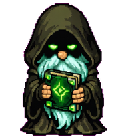
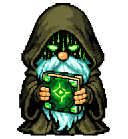
Upgrade Grimoire and Gizmo to v2 desktop pets
Add sixteen looking directions and refreshed appearances, with animated
README previews and complete pet packages in both plugin distributions.
Preserve spritesheets referenced by pet manifests instead of dropping
them with large display art. Release version 1.1.6.

Validation: four offline packaging tests, v2 atlas checks, matching
spritesheet hashes across all six packages, and rendered README previews.

diff --git a/scripts/build-marketplace.py b/scripts/build-marketplace.py
@@ -10,8 +10,8 @@ Generates:
   .claude-plugin/marketplace.json   -> lists grim-tome
   .agents/plugins/marketplace.json  -> lists grim-core, grim-council, grim-artifacts (INSTALLED_BY_DEFAULT)
 
-Skill folders are copied with display images larger than MAX_IMAGE_BYTES stripped;
-unless launcher metadata references them. Unreferenced large images are display art.
+Skill folders are copied with display images larger than MAX_IMAGE_BYTES stripped,
+unless launcher metadata or a pet manifest references them as runtime assets.
 
 Run from the repo root: python3 scripts/build-marketplace.py
 """
@@ -23,7 +23,7 @@ import sys
 from pathlib import Path
 
 ROOT = Path(__file__).resolve().parent.parent
-VERSION = "1.1.5"
+VERSION = "1.1.6"
 MAX_IMAGE_BYTES = 200 * 1024
 IMAGE_SUFFIXES = {".png", ".jpg", ".jpeg", ".gif", ".webp"}
 
@@ -115,7 +115,7 @@ def rewrite_skill_name(skill_md: Path, new_name: str):
 
 def copy_skill(src: Path, dest: Path):
     metadata = src / "agents/openai.yaml"
-    referenced_icons = set()
+    referenced_assets = set()
     if metadata.is_file():
         for match in re.finditer(r"^  icon_(?:small|large):[ \t]*([^\n]+)$", metadata.read_text(), re.MULTILINE):
             value = match.group(1).strip()
@@ -125,7 +125,16 @@ def copy_skill(src: Path, dest: Path):
                 value = value[1:-1].replace("''", "'")
             else:
                 value = value.split(" #", 1)[0].strip()
-            referenced_icons.add((src / value).resolve())
+            referenced_assets.add((src / value).resolve())
+
+    for manifest in src.rglob("pet.json"):
+        value = json.loads(manifest.read_text()).get("spritesheetPath")
+        if not isinstance(value, str) or not value.strip() or Path(value).is_absolute():
+            raise ValueError(f"{manifest}: spritesheetPath must be a relative file path")
+        spritesheet = (manifest.parent / value).resolve()
+        if not spritesheet.is_relative_to(src.resolve()) or not spritesheet.is_file():
+            raise ValueError(f"{manifest}: spritesheetPath must resolve to a file inside the skill")
+        referenced_assets.add(spritesheet)
 
     def ignore(directory, names):
         skipped = []
@@ -134,7 +143,7 @@ def copy_skill(src: Path, dest: Path):
                 skipped.append(name)
                 continue
             p = Path(directory) / name
-            if p.is_file() and p.suffix.lower() in IMAGE_SUFFIXES and p.stat().st_size > MAX_IMAGE_BYTES and p.resolve() not in referenced_icons:
+            if p.is_file() and p.suffix.lower() in IMAGE_SUFFIXES and p.stat().st_size > MAX_IMAGE_BYTES and p.resolve() not in referenced_assets:
                 skipped.append(name)
         return skipped
 

diff --git a/scripts/test_build_marketplace.py b/scripts/test_build_marketplace.py
@@ -1,5 +1,6 @@
 """Offline checks for runtime assets in marketplace skill bundles."""
 import importlib.util
+import json
 from pathlib import Path
 import tempfile
 import unittest
@@ -24,6 +25,43 @@ class BundleAssetsTests(unittest.TestCase):
             self.assertTrue((dest / "assets/large.png").is_file())
             self.assertFalse((dest / "assets/portrait.png").exists())
             self.assertFalse((dest / "__pycache__").exists())
+
+    def test_pet_spritesheet_survives_display_image_filter(self):
+        with tempfile.TemporaryDirectory() as tmp:
+            source, dest = Path(tmp) / "source", Path(tmp) / "bundle"
+            pet = source / "assets/pet"
+            (pet / "frames").mkdir(parents=True)
+            manifest = {"spriteVersionNumber": 2, "spritesheetPath": "frames/spritesheet.webp"}
+            (pet / "pet.json").write_text(json.dumps(manifest))
+            sprite = b"sprite" * (builder.MAX_IMAGE_BYTES // 6 + 1)
+            (pet / "frames/spritesheet.webp").write_bytes(sprite)
+            (pet / "unused.webp").write_bytes(sprite)
+            builder.copy_skill(source, dest)
+            copied_pet = dest / "assets/pet"
+            copied_manifest = json.loads((copied_pet / "pet.json").read_text())
+            self.assertEqual(copied_manifest, manifest)
+            self.assertEqual((copied_pet / copied_manifest["spritesheetPath"]).read_bytes(), sprite)
+            self.assertFalse((copied_pet / "unused.webp").exists())
+
+    def test_missing_pet_spritesheet_fails_build(self):
+        with tempfile.TemporaryDirectory() as tmp:
+            source = Path(tmp) / "source"
+            source.mkdir()
+            (source / "pet.json").write_text(json.dumps({"spritesheetPath": "missing.webp"}))
+            with self.assertRaisesRegex(ValueError, "inside the skill"):
+                builder.copy_skill(source, Path(tmp) / "bundle")
+
+    def test_pet_spritesheet_cannot_reference_an_external_file(self):
+        with tempfile.TemporaryDirectory() as tmp:
+            source = Path(tmp) / "source"
+            source.mkdir()
+            outside = Path(tmp) / "outside.webp"
+            outside.write_bytes(b"outside")
+            for value in ("../outside.webp", str(outside)):
+                with self.subTest(path=value):
+                    (source / "pet.json").write_text(json.dumps({"spritesheetPath": value}))
+                    with self.assertRaises(ValueError):
+                        builder.copy_skill(source, Path(tmp) / "bundle")
 
 if __name__ == "__main__":
     unittest.main()

diff --git a/README.md b/README.md
@@ -63,6 +63,8 @@ You can keep reading, or chat with your agent
 
 ## What's New
 
+**v1.1.6, Pets that look around.** Grimoire and Gizmo have refreshed looks and sixteen looking directions. Plugin installs now include their complete sprite packages.
+
 **v1.1.5, Grimoire in the Cursor Marketplace.** The Tome is now officially listed: [cursor.com/marketplace/mind-goblin-studios](https://cursor.com/marketplace/mind-goblin-studios). One click installs every skill and the whole council into Cursor.
 
 **v1.1.2, The Narrator.** A shared council voice for every harness: stage direction, handoffs, and status beats between member lines, never plain assistant voice mid-council. On Grok Bots, messaging a seated member bot is the summon, and their reply is woven into the scene.
@@ -2233,11 +2235,13 @@ Faces for the council: a desk companion and a full dashboard.
 
 ### Codex & chatGPT Work /pet (2h.1)
 
-![Grimoire pet](skills/council/members/grimoire-code-wizard/assets/pet/grimoire-pet.png) ![Gizmo pet](skills/council/members/gizmo-chaos-goblin/assets/pet/gizmo-pet.png)
+![Grimoire pet](skills/council/members/grimoire-code-wizard/assets/pet/grimoire-pet.gif) ![Gizmo pet](skills/council/members/gizmo-chaos-goblin/assets/pet/gizmo-pet.gif)
 
 Grimoire and Gizmo are also available as animated desktop pets in Codex / the ChatGPT desktop app, and chatGPT work iOS app.
 
 Type `/pet` and a tiny pixel wizard or goblin will keep you company while you code.
+
+Both pets look around in sixteen directions, alongside their idle, travel, wave, jump, work, and reaction animations. Grimoire has his matrix-code face; Gizmo wears his purple-lined cloak with gold trim and potion bottles.
 
 Both pets ship with the Tome: each member's `assets/pet/` folder has the `pet.json` + spritesheet package, ready to drop into `~/.codex/pets/`. Ask your agent to install it.
 
@@ -2702,7 +2706,7 @@ The letter is the category inside the chapter (1a Everyday Spells, 1b Dev, 1c Ag
 
 Use ranges for groups (`Tome 2b.1-3`, the Merchants Guild).
 
-For an exact, frozen quote, pin a version: `Tome 1c.4 @ v1.1.5` (or a commit hash).
+For an exact, frozen quote, pin a version: `Tome 1c.4 @ v1.1.6` (or a commit hash).
 
 ---
 

diff --git a/plugins/grim-council/skills/grim:council/references/council-member-media.md b/plugins/grim-council/skills/grim:council/references/council-member-media.md
@@ -45,8 +45,11 @@ Each council member with a pet should have a checked-in bundle:
 skills/council/members/<member-slug>/assets/
   portrait.png
   sprite.gif
-  pet.json
-  spritesheet.webp
+  pet/
+    pet.json
+    spritesheet.webp
+    <pet-id>-pet.png
+    <pet-id>-pet.gif
 ```
 
 Temporary exploration assets can live beside the final bundle during an active generation pass, but should not become durable provenance docs by default:
@@ -90,10 +93,14 @@ Do not use the old loose `artifacts/council/assets/*.jpg` bucket for member port
   "id": "<member-id>",
   "displayName": "<Display Name>",
   "description": "<one-line pet description>",
+  "spriteVersionNumber": 2,
   "spritesheetPath": "spritesheet.webp"
 }
 ```
 
+V2 pets use a transparent `1536x2288` atlas of `192x208` cells: nine animation rows followed by sixteen clockwise look poses.
+Keep `spriteVersionNumber: 2` with the matching spritesheet when installing or updating a pet.
+The marketplace builder preserves the referenced spritesheet even when it exceeds the display-image size limit.
 
 
 ### Data Contract
@@ -146,7 +153,8 @@ Symlinks remain appropriate for live install surfaces such as `~/.codex/skills/*
 
 1. Generate and validate the pet with `hatch-pet`.
 2. Install the live pet under `${CODEX_HOME:-$HOME/.codex}/pets/<pet-id>/`.
-3. Copy the installed `pet.json` and `spritesheet.webp` into `skills/council/members/<member-slug>/assets/`.
-4. Copy or update the member `portrait.png` in the same folder.
-5. Update the relevant persona `SKILL.md` when the visual identity changes.
+3. Copy the validated `pet.json` and `spritesheet.webp` into `skills/council/members/<member-slug>/assets/pet/`.
+4. Refresh the pet PNG from its neutral frame and the GIF from its approved look loop. Keep both previews at `128x139`.
+5. Rebuild and verify the marketplace bundles so their pet manifests resolve to the same spritesheets.
+6. Update portraits or persona appearance text only when those changes are part of the requested work.
 

diff --git a/plugins/grim-tome/skills/grim-council/references/council-member-media.md b/plugins/grim-tome/skills/grim-council/references/council-member-media.md
@@ -45,8 +45,11 @@ Each council member with a pet should have a checked-in bundle:
 skills/council/members/<member-slug>/assets/
   portrait.png
   sprite.gif
-  pet.json
-  spritesheet.webp
+  pet/
+    pet.json
+    spritesheet.webp
+    <pet-id>-pet.png
+    <pet-id>-pet.gif
 ```
 
 Temporary exploration assets can live beside the final bundle during an active generation pass, but should not become durable provenance docs by default:
@@ -90,10 +93,14 @@ Do not use the old loose `artifacts/council/assets/*.jpg` bucket for member port
   "id": "<member-id>",
   "displayName": "<Display Name>",
   "description": "<one-line pet description>",
+  "spriteVersionNumber": 2,
   "spritesheetPath": "spritesheet.webp"
 }
 ```
 
+V2 pets use a transparent `1536x2288` atlas of `192x208` cells: nine animation rows followed by sixteen clockwise look poses.
+Keep `spriteVersionNumber: 2` with the matching spritesheet when installing or updating a pet.
+The marketplace builder preserves the referenced spritesheet even when it exceeds the display-image size limit.
 
 
 ### Data Contract
@@ -146,7 +153,8 @@ Symlinks remain appropriate for live install surfaces such as `~/.codex/skills/*
 
 1. Generate and validate the pet with `hatch-pet`.
 2. Install the live pet under `${CODEX_HOME:-$HOME/.codex}/pets/<pet-id>/`.
-3. Copy the installed `pet.json` and `spritesheet.webp` into `skills/council/members/<member-slug>/assets/`.
-4. Copy or update the member `portrait.png` in the same folder.
-5. Update the relevant persona `SKILL.md` when the visual identity changes.
+3. Copy the validated `pet.json` and `spritesheet.webp` into `skills/council/members/<member-slug>/assets/pet/`.
+4. Refresh the pet PNG from its neutral frame and the GIF from its approved look loop. Keep both previews at `128x139`.
+5. Rebuild and verify the marketplace bundles so their pet manifests resolve to the same spritesheets.
+6. Update portraits or persona appearance text only when those changes are part of the requested work.
 

diff --git a/skills/council/council/references/council-member-media.md b/skills/council/council/references/council-member-media.md
@@ -45,8 +45,11 @@ Each council member with a pet should have a checked-in bundle:
 skills/council/members/<member-slug>/assets/
   portrait.png
   sprite.gif
-  pet.json
-  spritesheet.webp
+  pet/
+    pet.json
+    spritesheet.webp
+    <pet-id>-pet.png
+    <pet-id>-pet.gif
 ```
 
 Temporary exploration assets can live beside the final bundle during an active generation pass, but should not become durable provenance docs by default:
@@ -90,10 +93,14 @@ Do not use the old loose `artifacts/council/assets/*.jpg` bucket for member port
   "id": "<member-id>",
   "displayName": "<Display Name>",
   "description": "<one-line pet description>",
+  "spriteVersionNumber": 2,
   "spritesheetPath": "spritesheet.webp"
 }
 ```
 
+V2 pets use a transparent `1536x2288` atlas of `192x208` cells: nine animation rows followed by sixteen clockwise look poses.
+Keep `spriteVersionNumber: 2` with the matching spritesheet when installing or updating a pet.
+The marketplace builder preserves the referenced spritesheet even when it exceeds the display-image size limit.
 
 
 ### Data Contract
@@ -146,7 +153,8 @@ Symlinks remain appropriate for live install surfaces such as `~/.codex/skills/*
 
 1. Generate and validate the pet with `hatch-pet`.
 2. Install the live pet under `${CODEX_HOME:-$HOME/.codex}/pets/<pet-id>/`.
-3. Copy the installed `pet.json` and `spritesheet.webp` into `skills/council/members/<member-slug>/assets/`.
-4. Copy or update the member `portrait.png` in the same folder.
-5. Update the relevant persona `SKILL.md` when the visual identity changes.
+3. Copy the validated `pet.json` and `spritesheet.webp` into `skills/council/members/<member-slug>/assets/pet/`.
+4. Refresh the pet PNG from its neutral frame and the GIF from its approved look loop. Keep both previews at `128x139`.
+5. Rebuild and verify the marketplace bundles so their pet manifests resolve to the same spritesheets.
+6. Update portraits or persona appearance text only when those changes are part of the requested work.
 

diff --git a/docs/harness.md b/docs/harness.md
@@ -12,6 +12,7 @@ Install steps for each harness live in [installGuide.md](../installGuide.md).
 - Council members are just skills with a persona. Summon one and the harness reads the member's file; convene the council and it reads the council skill, which hydrates every member.
 - Routines run through whatever scheduler the harness provides (Codex automations, Cursor automations, cron). The council skill only defines the calendar.
 - Plugin marketplaces (Claude Code, Codex) are a packaging layer over the same files. `scripts/build-marketplace.py` regenerates `plugins/` from `skills/registry.yaml`.
+- Runtime images referenced by launcher metadata or `pet.json` remain in plugin bundles, even when large display art is omitted.
 
 **Prompt-monolith harnesses**: Grok Bots and similar. One big system prompt per bot, no skill files.
 

diff --git a/patchNotes.md b/patchNotes.md
@@ -3,6 +3,14 @@
 Public changelog for Grimoire's Tome releases
 
 
+## v1.1.6 (2026-09-14)
+
+- Grimoire and Gizmo now ship as v2 desktop pets with all nine animation states and sixteen clockwise looking directions.
+- Grimoire gains his matrix-code face. Gizmo's amber eyes, grin, purple-lined cloak, gold trim, and potion bottles match his portrait.
+- Animated pet previews show the gaze loops in the README.
+- Marketplace bundles retain spritesheets referenced by `pet.json`, including files above the display-image size limit. Missing or out-of-skill spritesheet references fail the build.
+- To update an installed pet, replace its `pet.json` and `spritesheet.webp` together.
+
 ## v1.1.5 (2026-09-08)
 
 Grimoire is officially in the Cursor Marketplace: https://cursor.com/marketplace/mind-goblin-studios
